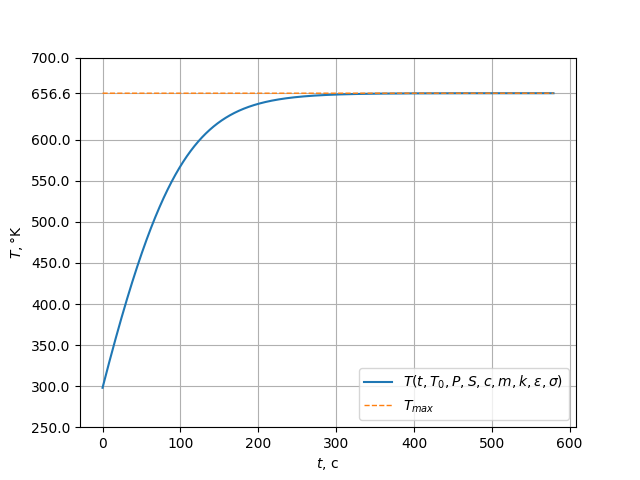
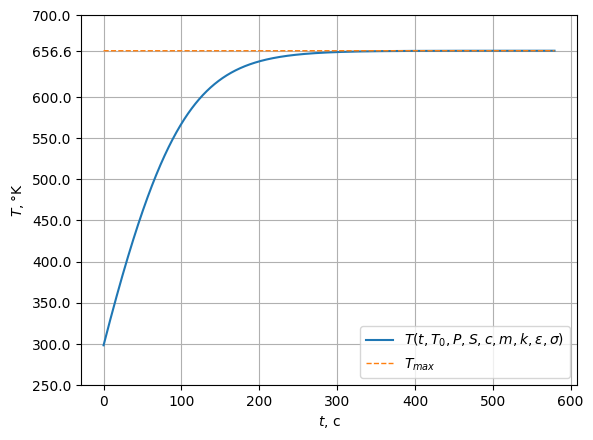
fix figures

diff --git a/main.py b/main.py
@@ -72,7 +72,7 @@ if __name__ == '__main__':
     plt.yticks(old_ticks + [T_max])
     plt.legend(loc='lower right')
     plt.grid()
-    plt.savefig('1.png')
+    plt.savefig('1.png', bbox_inches='tight')
     plt.show()
     plt.clf()
 
@@ -135,7 +135,7 @@ if __name__ == '__main__':
 
     plt.legend(loc='lower right')
     plt.grid()
-    plt.savefig('2.png')
+    plt.savefig('2.png', bbox_inches='tight')
     plt.show()
     plt.clf()
 
@@ -190,7 +190,7 @@ if __name__ == '__main__':
 
     plt.legend(loc='lower right')
     plt.grid()
-    plt.savefig('3.png')
+    plt.savefig('3.png', bbox_inches='tight')
     plt.show()
     plt.clf()
 
